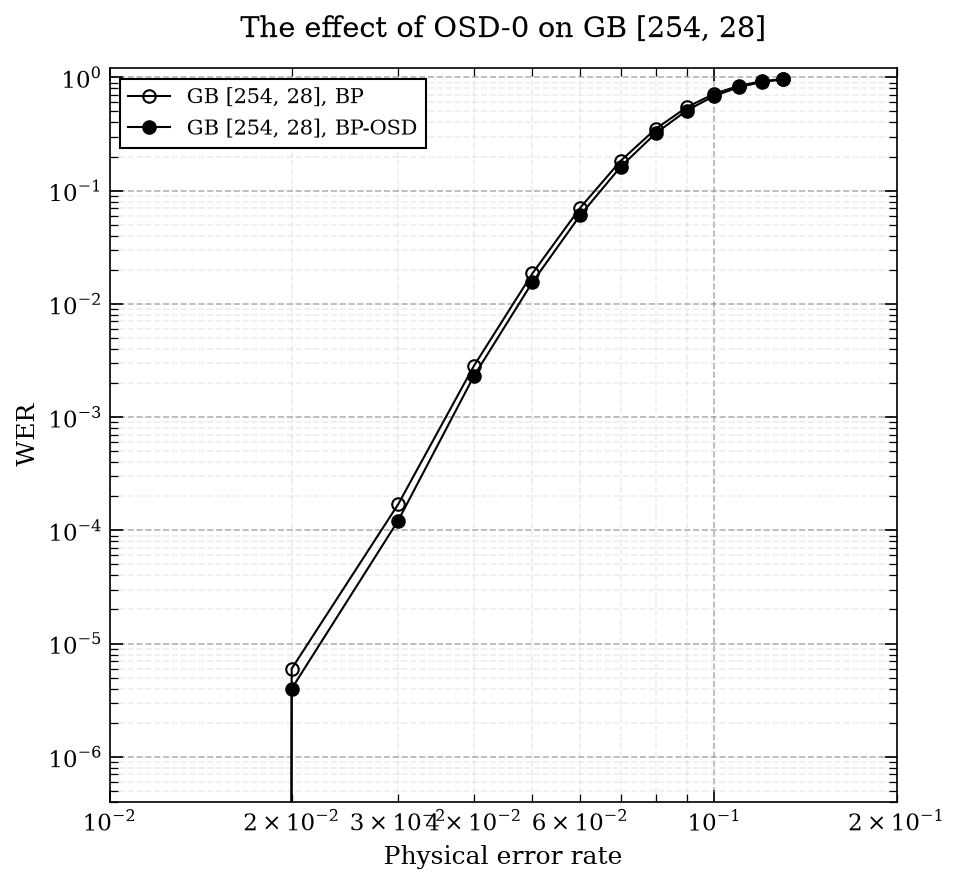
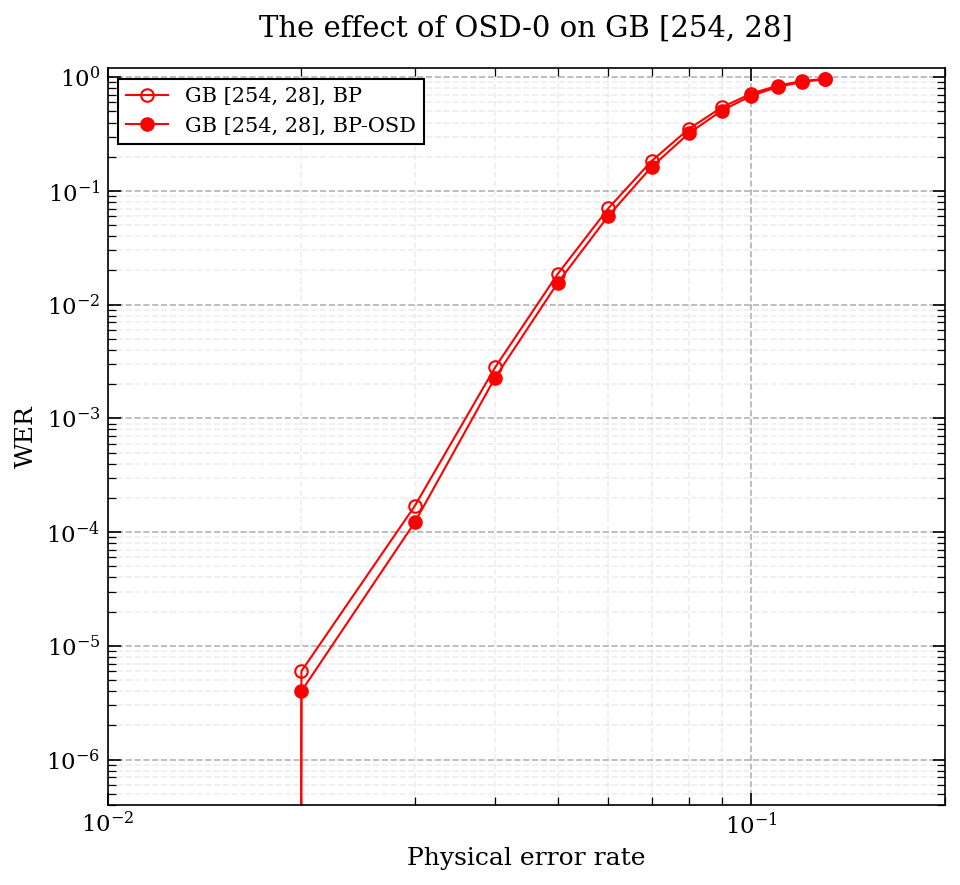
possible run?

diff --git a/BP_OSD_Decoder/plot.py b/BP_OSD_Decoder/plot.py
@@ -67,11 +67,11 @@ def plot_bp_vs_osd(code_label, filepath, color):
 
 if __name__ == "__main__":
     # Ensure simulate.py has been executed to generate the data
-    file_path = "results/ghp_882_24_comparison.txt"
+    file_path = "results/gb_254_28_comparison.txt"
     
     if os.path.exists(file_path):
         # Using black to perfectly replicate the A1 code style from the image
-        plot_bp_vs_osd(code_label="GHP [882, 24]", filepath=file_path, color='red')
+        plot_bp_vs_osd(code_label="GB [254, 28]", filepath=file_path, color='red')
     else:
         print(f"Error: Could not find {file_path}.")
         print("Please run simulate.py first to generate the required Monte Carlo data.")

diff --git a/BP_OSD_Decoder/simulate_GB_254.py b/BP_OSD_Decoder/simulate_GB_254.py
@@ -65,7 +65,7 @@ def run_monte_carlo(filepath, error_rates, max_trials):
 
 if __name__ == "__main__":
     error_rates = [0.01, 0.02, 0.03, 0.04, 0.05, 0.06, 0.07, 0.08, 0.09, 0.1, 0.11, 0.12, 0.13]
-    trials = 50000000
+    trials = 500000000
     
     code_name = "gb_254_28"
     print(f"--- Simulating Code: {code_name} ---")

diff --git a/BP_OSD_Decoder/simulate_GHP.py b/BP_OSD_Decoder/simulate_GHP.py
@@ -65,7 +65,7 @@ def run_monte_carlo(filepath, error_rates, max_trials):
 
 if __name__ == "__main__":
     error_rates = [0.01, 0.02, 0.03, 0.04, 0.05, 0.06, 0.07, 0.08, 0.09, 0.1, 0.11, 0.12, 0.13]
-    trials = 500000 
+    trials = 500000000
     
     code_name = "ghp_882_24"
     print(f"--- Simulating Code: {code_name} ---")
